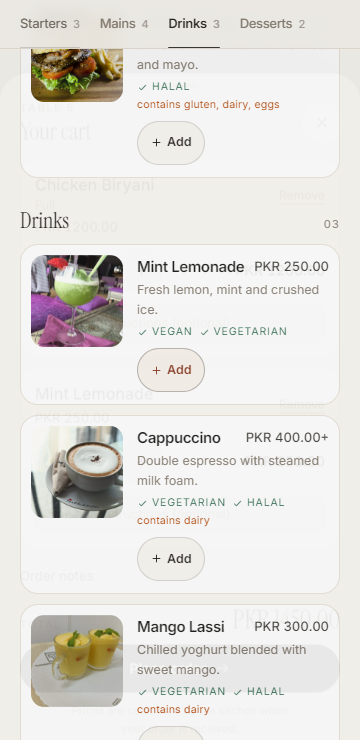
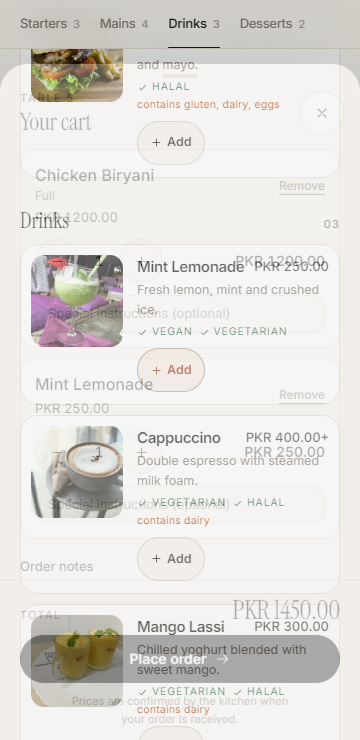
docs: fill the Week 7 progress report with verified build and test evidence

diff --git a/QuickMenuQR_Documentation/Project/Week7_Progress_Report.md b/QuickMenuQR_Documentation/Project/Week7_Progress_Report.md
@@ -1,0 +1,87 @@
+# Week 7 Progress Report: QuickMenu QR
+
+**Project:** #031 QuickMenu QR – Dynamic Multi-Language Restaurant Menu & Ordering
+**Student:** Muhammad Haroon
+**Faculty Advisor:** Dr. Zaigham Mushtaq
+**Milestone:** Week 7 of 12 – Live Working Prototype Milestone Gate
+**Repository:** https://github.com/mughal456321/quickmenu-qr
+**Live prototype:** Runs locally (API on `:4000`, web on `:3000`) and is reachable from a phone on the same Wi-Fi through the table QR code; demonstrated live to the supervisor on [[FILL: date and time]].
+
+### 1. Work Completed
+
+**End-to-end smoke test**
+- Prepared and executed a 16-step smoke test of the complete user journey: owner registration and login, menu and table setup, QR code, customer menu from the QR link, cart, order placement, staff handling of the order, status updates, and the customer's status page
+- Verified the protective behaviors in the same run: wrong-password handling, out-of-stock items blocked, a double tap creating only one order, invalid input rejected with clear messages, and the saved order rows checked directly in the database
+- Result: **16 of 16 steps passed** on build `75c10c4` (16 November 2026). The run log is committed at `docs/week7/smoke-test-run.log`
+- Fixed **3 defects** found while preparing the demonstration:
+  1. Scanning the table QR from a phone showed "localhost refused to connect" because the link encoded the laptop's `localhost`; QR links now use the machine's LAN address and the API accepts it as an origin (`53b2319`)
+  2. The development database was killed along with Docker on the 8 GB laptop, taking the API down mid-demo; added `npm run db:local`, which runs PostgreSQL 18 from `node_modules` on the same port with the same credentials (`bbae219`)
+  3. When port 3000 was busy, Next.js moved the app to 3001 and every API call failed the origin check, which looked like "server not found"; the API now accepts any `localhost` port in development while production stays strict (`75c10c4`)
+- Automated the same journey as 5 Playwright end-to-end tests (`e2e/order-flow`, `e2e/dashboard-flow`, `e2e/kitchen-flow`) that run in CI and produce the screenshots in `docs/week6/`
+
+**Mid-Term Progress Report**
+- Compiled the Mid-Term Progress Report covering Weeks 1 to 7: objectives, weekly progress, system overview (3-tier architecture, 12-table database, 43-endpoint API), implementation status, test results, challenges and solutions, risks, and the plan for Weeks 8 to 12
+
+**Slide deck**
+- Prepared the mid-term presentation covering the problem, solution, architecture, live demo flow, test evidence, challenges, and remaining plan: [[FILL: slide deck link or file name]]
+
+**Live demonstration**
+- Prepared a timed 8 to 10 minute demo script (owner side, customer side, staff side, an error case, and test results), a backup screen recording, and answers to likely supervisor questions (REST vs GraphQL, PostgreSQL choice, duplicate-order protection, price tampering, tenant isolation, security, scaling)
+- Demonstration to the faculty supervisor: [[FILL: date and time, and a one-line outcome or the feedback received]]
+
+### 2. Verified Deliverables
+- Smoke test: **16 of 16** steps passed on build `75c10c4`; evidence: `docs/week7/smoke-test-run.log` plus screenshots `docs/week6/01-menu.png`, `02-cart.png`, `03-order-status.png`, `04-staff-orders.png`, `05-customer-preparing.png`
+- Automated tests: **213** passing (188 API, 4 shared contracts, 21 web); backend business-logic coverage **95.3%** of statements and lines (86.0% of branches), target 70% or higher; order engine coverage **100%**, target 90%
+- CI pipeline: passing — lint, typecheck, coverage, both builds and Playwright in GitHub Actions: [run 43871564383](https://github.com/mughal456321/quickmenu-qr/actions/runs/43871564383)
+- Prototype status: the main customer journey (scan, browse, order, track) and the staff order handling work end to end; features still to come are listed in the plan below
+
+| Check (16 November 2026) | Command | Result |
+|---|---|---|
+| Lint | `npm run lint` | clean (API, web, shared) |
+| Types | `npm run typecheck` | clean (API, web, shared) |
+| Unit and integration tests | `npm test` | 213 passed, 0 failed |
+| Backend coverage | `npm run test:coverage` | 95.27% statements/lines, 86.02% branches, 100% functions |
+| Production build | `npm run build` | shared, API and web compiled; Next.js build succeeded |
+| End-to-end tests | `npm run test:e2e` | 5 passed (1.9 min) |
+| Smoke test | 16-step checklist | 16 passed |
+
+**Submitted and linked documents (viewable online)**
+
+| Deliverable | Link |
+|---|---|
+| **Mid-Term Progress Report** (Weeks 1 to 7) | [Open](https://claude.ai/artifact/45bnkzSfWMmP1G7J76WbWZ) |
+| **Smoke Test Checklist and Live Demo Guide** (16 steps, demo script, Q&A) | [Open](https://claude.ai/artifact/Ruhgfu1eL1waKdL98Rhm6P) |
+| Mid-Term Slide Deck | [[FILL: link to your slides]] |
+| Source code repository | https://github.com/mughal456321/quickmenu-qr |
+
+**Earlier project documents**
+
+| Document | Week | Link |
+|---|---|---|
+| Software Requirements Specification (IEEE 830) | 2 | [Open](https://claude.ai/artifact/M1eNnUTWyVoFcBg3g2ySwY) |
+| Architecture and Cloud Topology (3-tier, DFDs) | 3 | [Open](https://claude.ai/artifact/Xi5fi2Gg9PGBu6Wn28qDuT) |
+| Database, API Contract and UI Wireframes | 4 | [Open](https://claude.ai/artifact/K5bggkXJ8Aw1YjC45bdchx) |
+| Implementation specification 06A: order engine and vertical slice | 6 | [Open](https://claude.ai/artifact/YDe17joZKx5cW2WzBJdQwA) |
+| Engineering rules used for the build (AGENTS.md) | 6 | [Open](https://claude.ai/artifact/73EFcoBj83tDQbHXHYzJft) |
+
+**Requirements covered by the smoke test**
+
+| Requirement | Where it is defined | Link |
+|---|---|---|
+| FR-01, FR-02: registration and login | SRS functional requirements | [Section 3.2](https://claude.ai/artifact/M1eNnUTWyVoFcBg3g2ySwY#32-functional-requirements) |
+| FR-06 to FR-16: menu management, tables and QR codes | SRS functional requirements | [Section 3.2](https://claude.ai/artifact/M1eNnUTWyVoFcBg3g2ySwY#32-functional-requirements) |
+| FR-17 to FR-29: browsing, cart, ordering, status | SRS functional requirements | [Section 3.2](https://claude.ai/artifact/M1eNnUTWyVoFcBg3g2ySwY#32-functional-requirements) |
+| FR-30 to FR-34: staff order handling and offline recovery | SRS functional requirements | [Section 3.2](https://claude.ai/artifact/M1eNnUTWyVoFcBg3g2ySwY#32-functional-requirements) |
+| UC-06 Browse Menu, UC-09 Place Order, UC-10 Track Order, UC-12 Update Order Status | SRS use cases | [Section 3.3](https://claude.ai/artifact/M1eNnUTWyVoFcBg3g2ySwY#33-use-case-specifications) |
+| NFR-R1, NFR-R4, NFR-R5: health, no lost orders, no duplicate orders | SRS non-functional requirements | [Section 3.4](https://claude.ai/artifact/M1eNnUTWyVoFcBg3g2ySwY#34-non-functional-requirements-quantifiable) |
+| NFR-S8: order rate limit (5 per minute per table) | SRS non-functional requirements | [Section 3.4](https://claude.ai/artifact/M1eNnUTWyVoFcBg3g2ySwY#34-non-functional-requirements-quantifiable) |
+| Customer screens (menu, cart, order status) | Week 4 wireframes | [Screen 1](https://claude.ai/artifact/K5bggkXJ8Aw1YjC45bdchx#44-screen-1-customer-menu) · [Screen 2](https://claude.ai/artifact/K5bggkXJ8Aw1YjC45bdchx#45-screen-2-cart--place-order) · [Screen 3](https://claude.ai/artifact/K5bggkXJ8Aw1YjC45bdchx#46-screen-3-order-status) |
+| Order status rules | Week 4 API contract | [Section 3.6](https://claude.ai/artifact/K5bggkXJ8Aw1YjC45bdchx#36-order-status-state-machine) |
+
+### 3. Next Week Objectives
+- Apply the supervisor's feedback from the live demonstration: [[FILL: list the feedback items]]
+- Publish the prototype on public URLs (Render blueprint for the API, Vercel for the web app) and keep a stable demo link for the supervisor and the pilot restaurant
+- Run the pilot with a campus cafe: real menu, real tables, and a short usability survey with customers and staff
+- Close the deferred security work: resolve the `npm audit` findings (22 advisories: 10 moderate, 7 high, 5 critical) and re-run the load test against the deployed stack
+- Add database backup and restore; the current `db:local` setup ships no `pg_dump`, so there is no export path today
+- Keep lint, typecheck, the 213 unit tests, the 5 Playwright tests and the 16-step smoke test green in CI after every change
